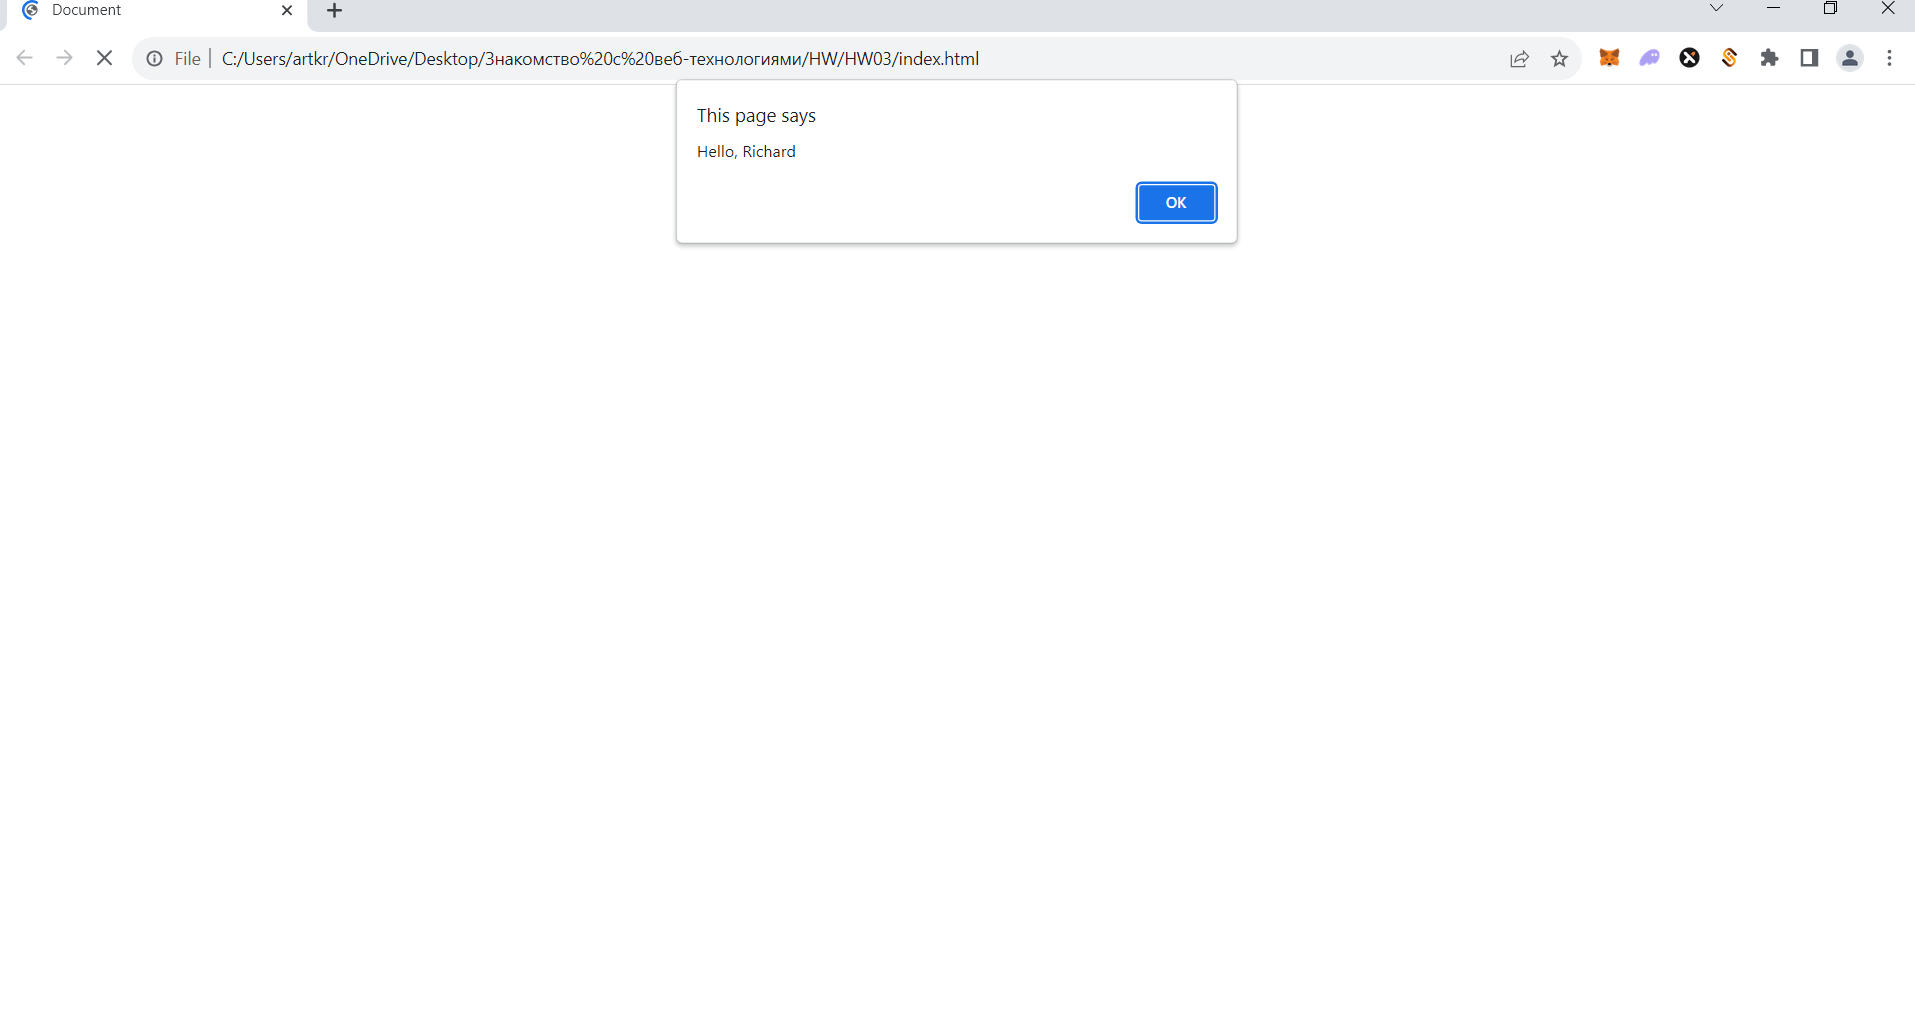
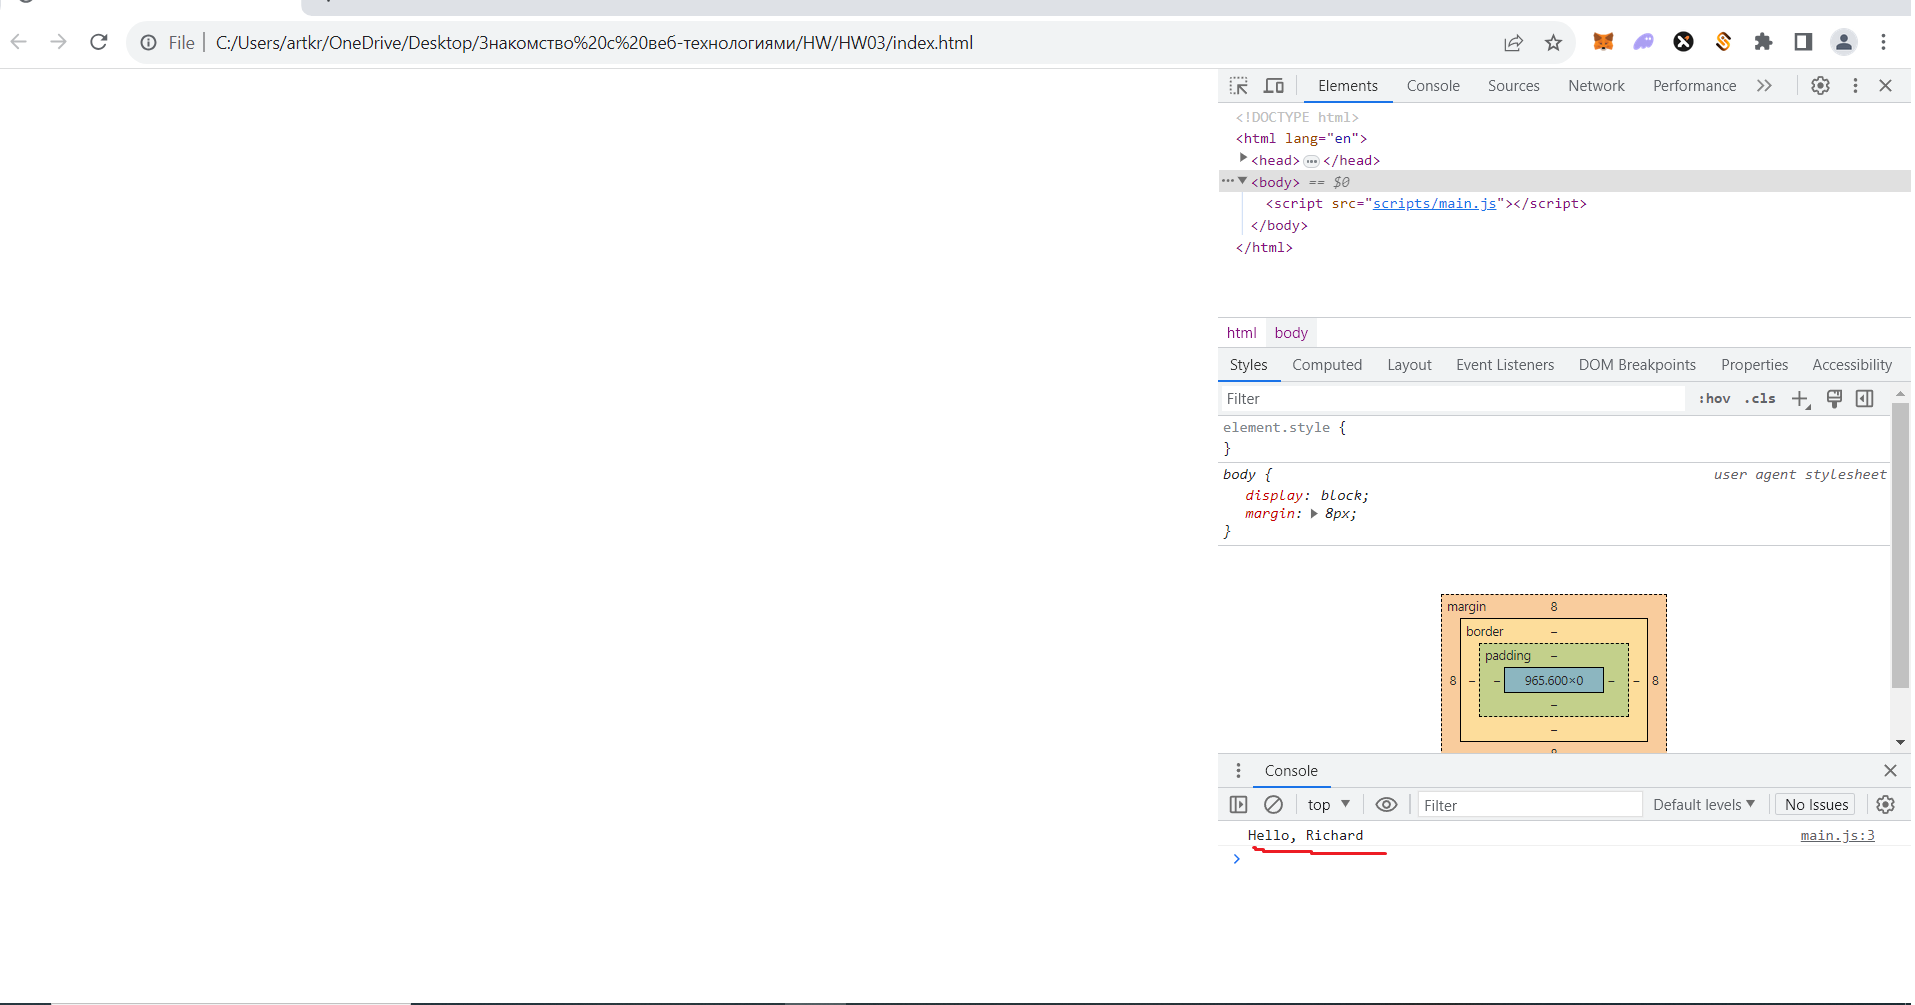
HW03afterCheckFinal3

diff --git a/HW03/scripts/main.js b/HW03/scripts/main.js
@@ -1,5 +1,5 @@
-let username=prompt("Enter username: ");
+let username = prompt("Enter username: ");
 function greeting(name) {
-    alert(`Hello, ${name}`);
+    console.log(`Hello, ${name}`);
 }
 greeting(username);

diff --git a/HW03/index.html b/HW03/index.html
@@ -6,6 +6,6 @@
     <title>Document</title>
 </head>
 <body>
-    <script src="scripts\main.js"></script>
+    <script src="scripts/main.js"></script>
 </body>
 </html>
